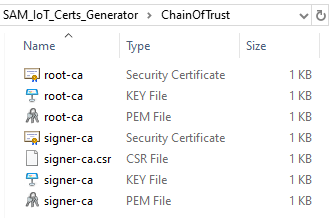
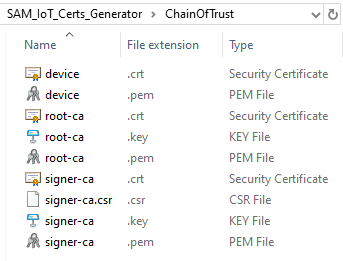
Update README.md

diff --git a/README.md b/README.md
@@ -84,6 +84,6 @@ The following shows mock certificates that the provisioning tool can generate fo
 
 7. Open a command line window (e.g. Command Prompt, PowerShell) and execute `.\iotprovision.bat`
 
-8. When the provisioning script has completed execution, the files for the security certificates (`*.crt`), keys (`*.key`), and signing requests (`*.csr`) can all be accessed from the [ChainOfTrust](./SAM_IoT_Certs_Generator/ChainOfTrust/) folder
+8. When the provisioning script has completed execution, the files for the security certificates (`*.crt`/`*.pem`), keys (`*.key`), and signing requests (`*.csr`) can all be accessed from the [ChainOfTrust](./SAM_IoT_Certs_Generator/ChainOfTrust/) folder
 
     <img src=".//media/image_03.png" />
